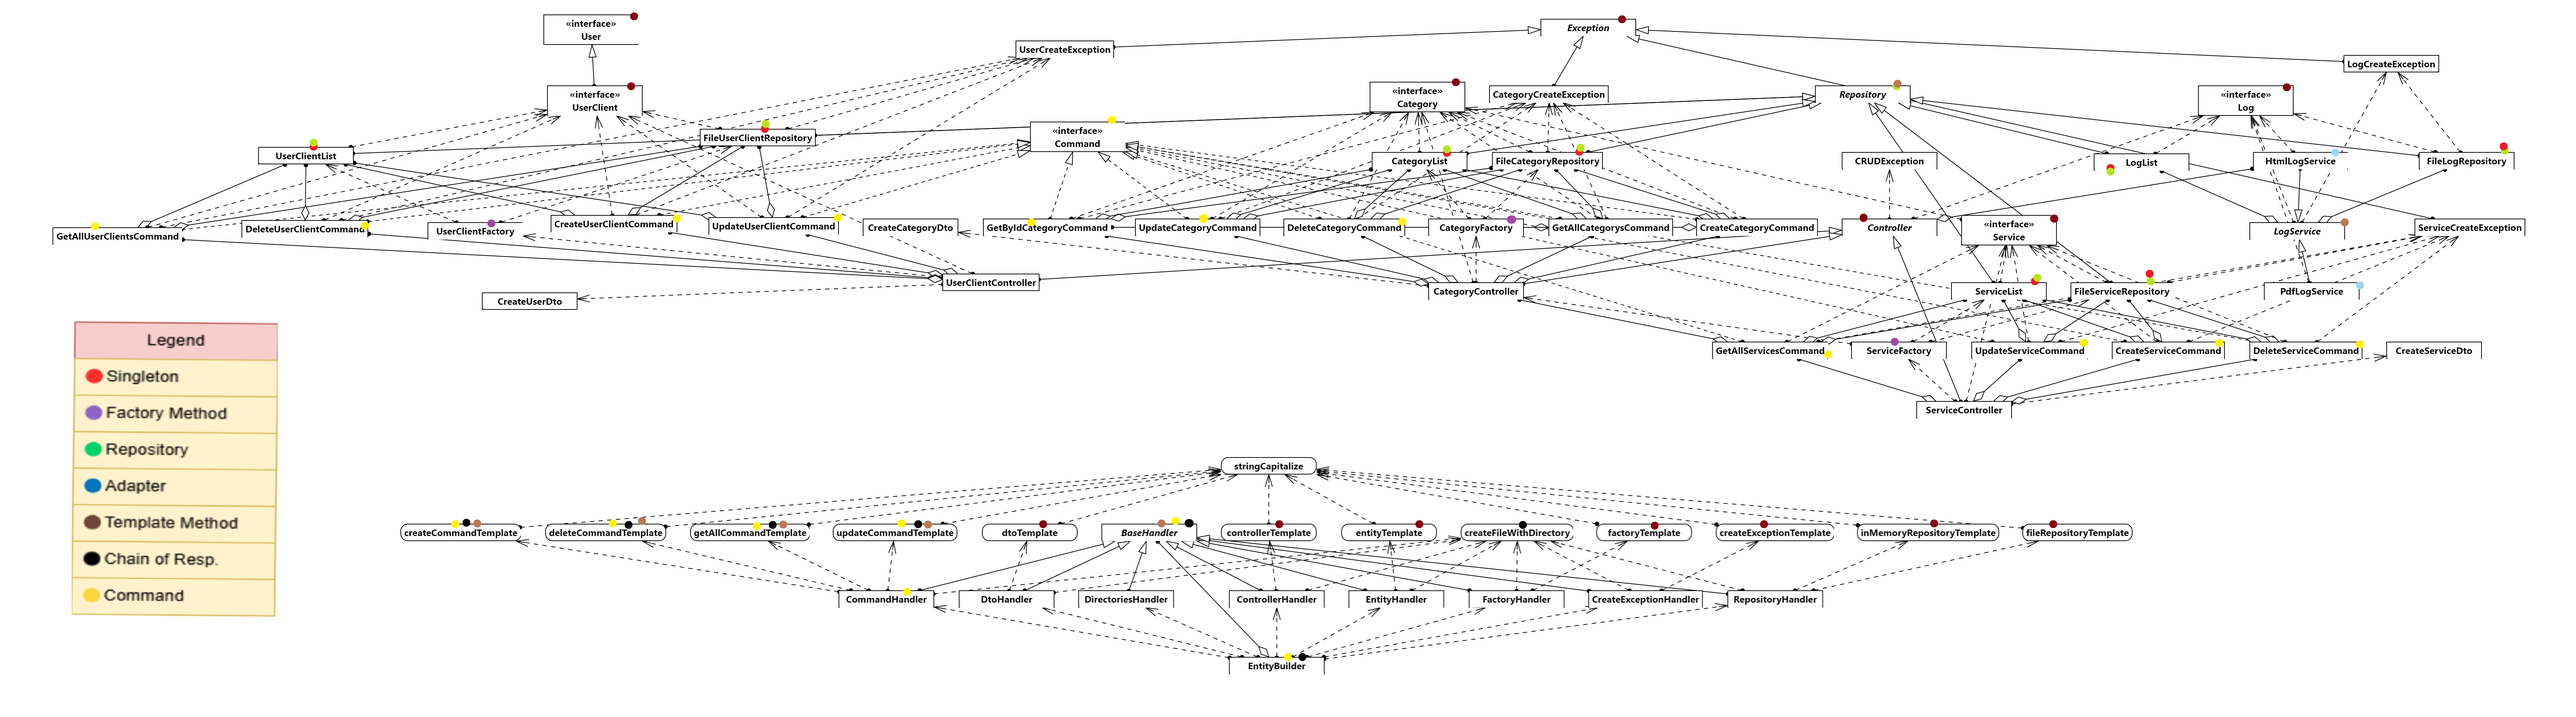
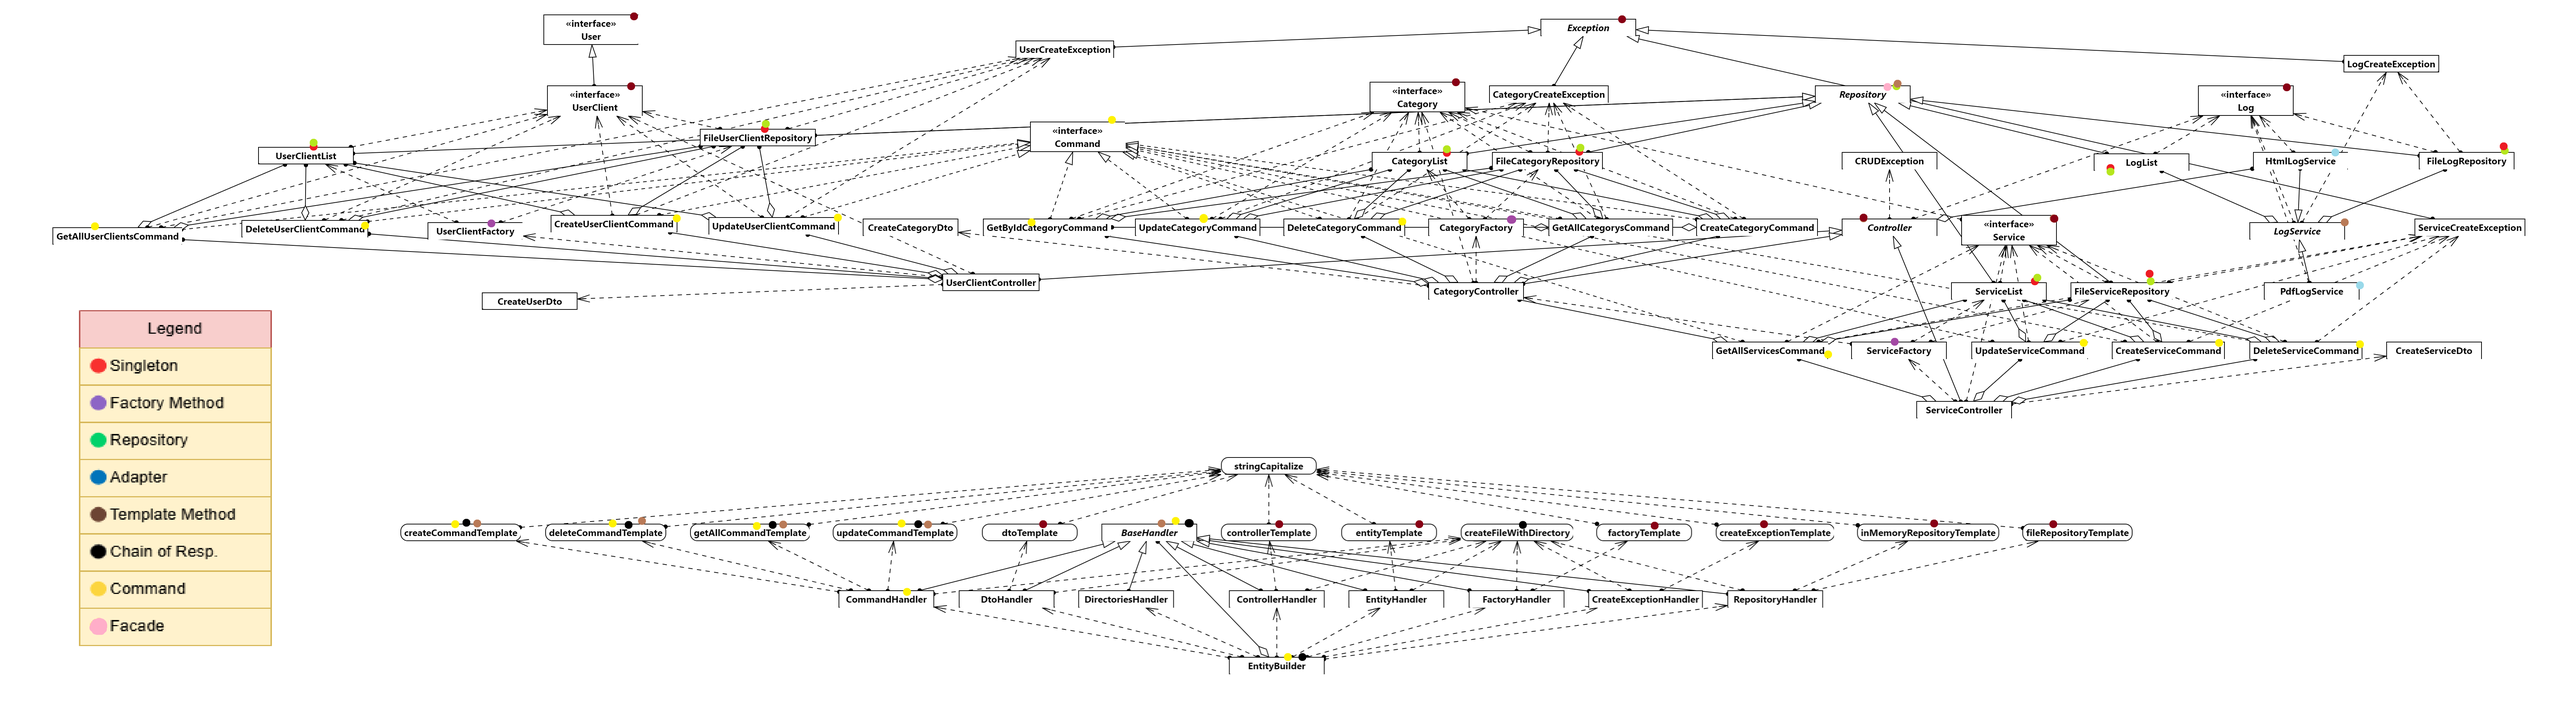
* [UPDATE] Facade pattern added at class diagram

Changed region(s): [[0.0, 0.4311, 0.1248, 0.9238]]

diff --git a/Diagramas/DiagramaClasse/design-patterns-and-their-objectives.md b/Diagramas/DiagramaClasse/design-patterns-and-their-objectives.md
@@ -33,3 +33,6 @@ De modo que não é necessário saber qual é a implementação de respositoriye
 
 
 - **Command**: Utilizamos o Command para encapsular uma solicitação como um objeto, permitindo que esta seja parametrizada. As classes ligadas a esse padrão são:  `getAllUserClientsCommand`, `DeleteUserClientCommand`, `CreateUserClientCommand`, `UpdateUserClientCommand`, `GetIdCategory`, `UpdateCategoryCommand`, `DeleteCategoryCommand`,`GetAllServicesCommand`, `UpdateServiceCommand`, `CreateServiceCommand`, `DeleterServiceCommand`, `createCommandTemplate`, `deleteCommandTemplate`, `getAllCommandTemplate`, `updateCommandTemplate`, `BaseHandler` e `EntityBuilder`.
+
+
+- **Facade**: Em nosso projeto utilizamos o padrão Facade para fornecer uma interface simplificada e unificada para um conjunto de interfaces (Repositorys). A classe principal que implementa é a classe `Repository`.
